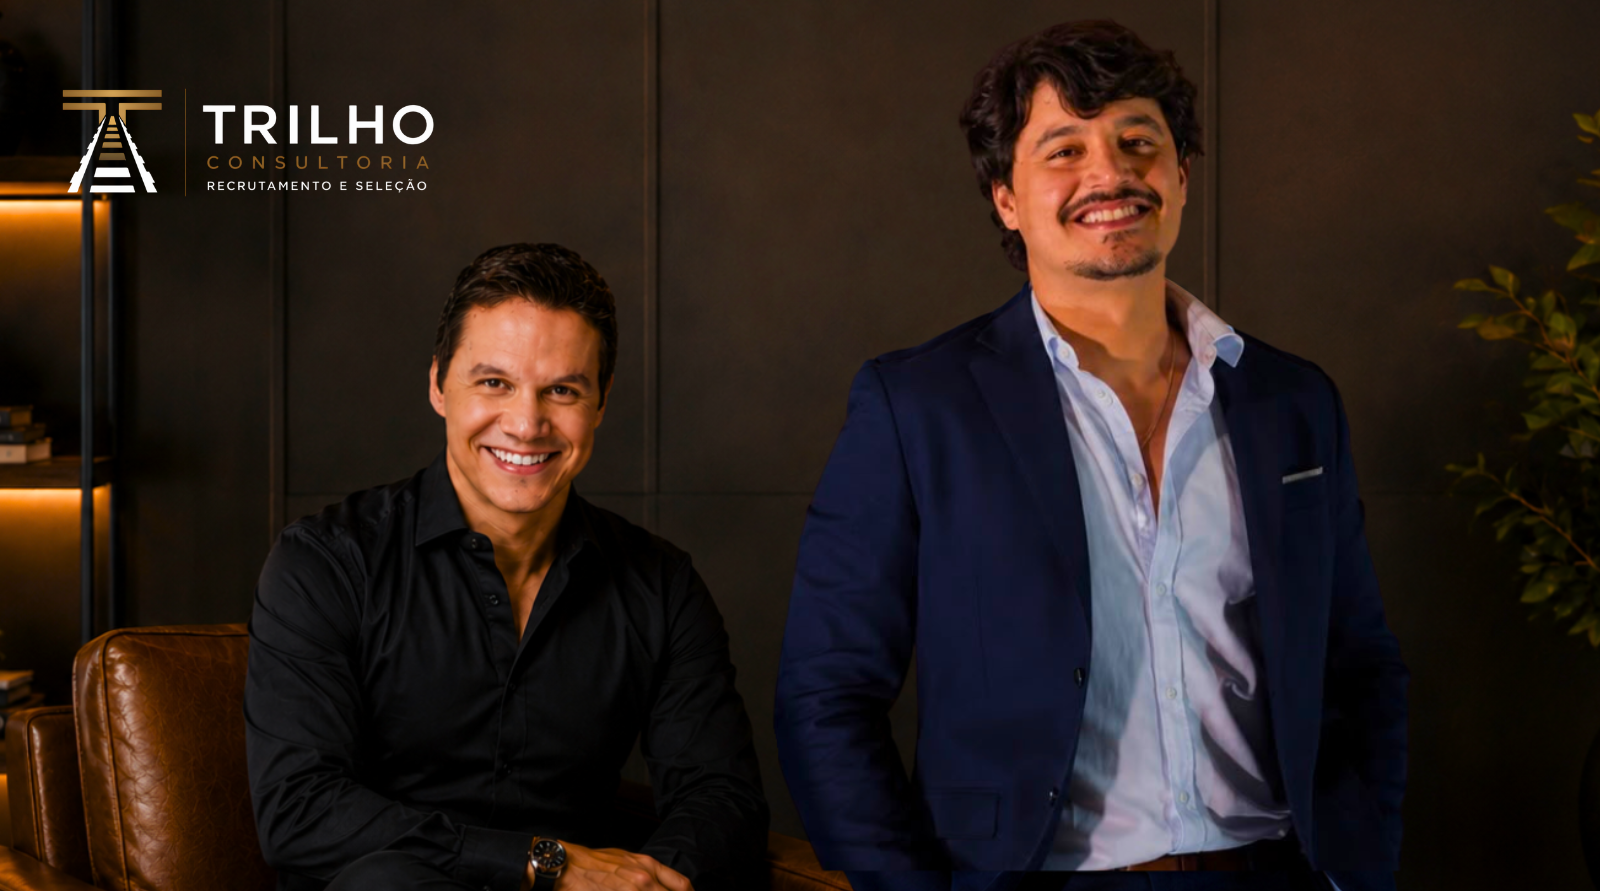
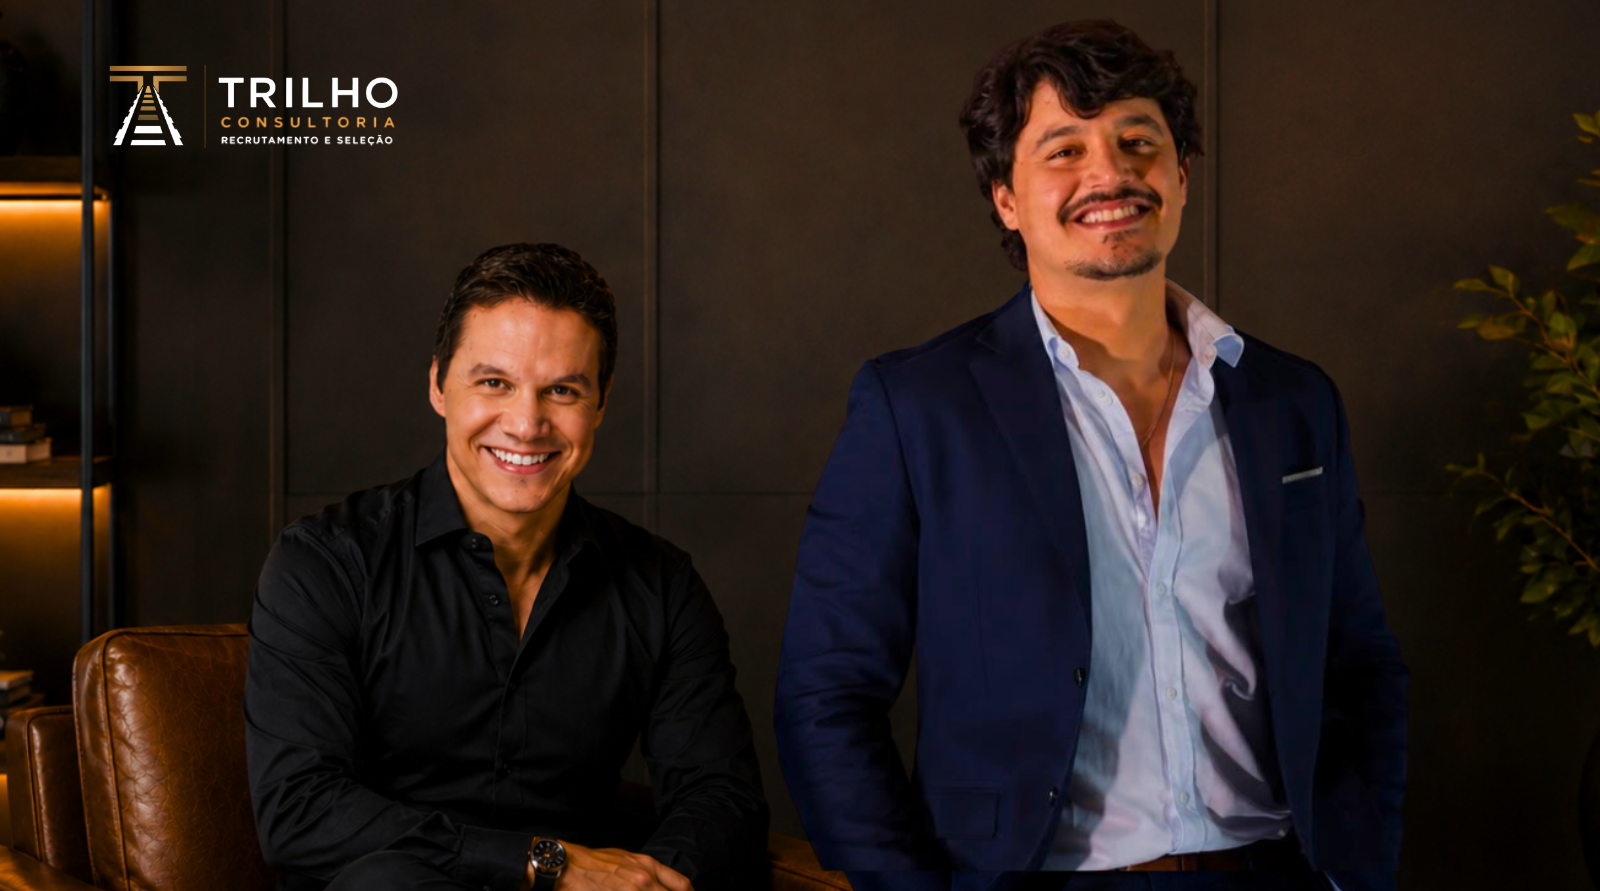
Ajustes de justificação de texto, tamanhos e ícones

Changed region(s): [[0.0312, 0.0606, 0.2812, 0.2424]]

diff --git a/components/Equipe.tsx b/components/Equipe.tsx
@@ -6,7 +6,7 @@ import { Linkedin } from "lucide-react";
 const SOCIOS = [
   {
     nome: "Alexandre Faleiros",
-    cargo: "Diretor de Talent & Sócio",
+    cargo: "Sócio & Diretor de Talent",
     linkedin: "https://www.linkedin.com/in/alexandre-faleiros",
     bio: "Administrador de Empresas pela Universidade Federal de Uberlândia (UFU), pós-graduado pela Fundação Getulio Vargas (FGV), especialista em Talent Acquisition e Gestão Estratégica de Pessoas. Possui mais de 10 anos de experiência em Recursos Humanos, atuando em empresas nacionais e multinacionais, com forte atuação em recrutamento estratégico para posições operacionais, técnicas, especialistas, liderança e executivos. Ao longo de sua carreira, liderou projetos de Employer Branding, Programas de Estágio e Trainee, atração de talentos, hunting, People Analytics e iniciativas de Diversidade, Equidade e Inclusão. É certificado nas metodologias comportamentais Predictive Index (PI) e PDA International.",
   },
@@ -14,7 +14,7 @@ const SOCIOS = [
     nome: "William Sales",
     cargo: "Sócio & Diretor Executivo",
     linkedin: "https://www.linkedin.com/in/will-sales",
-    bio: "Administrador, pós-graduado pela Fundação Getulio Vargas (FGV), executivo com mais de 20 anos de experiência em gestão empresarial, desenvolvimento de negócios e liderança de equipes. Construiu sua carreira em empresas de grande porte, liderando operações, projetos de transformação organizacional, estratégia corporativa e desenvolvimento de pessoas. Sua atuação combina visão de negócios, capacidade analítica e foco em resultados sustentáveis.",
+    bio: "Administrador, pós-graduado pela Fundação Getúlio Vargas (FGV), executivo com mais de 20 anos de experiência em gestão empresarial, gerenciamento de riscos, desenvolvimento de negócios e liderança de equipes multidisciplinares e multiculturais. Construiu sua carreira em empresas de grande porte, tanto nacionais como multinacionais, passando por todas as etapas organizacionais, liderando operações, projetos de transformação organizacional, estratégia corporativa e desenvolvimento de pessoas. Sua atuação combina visão de negócios, capacidade analítica e foco em resultados sustentáveis.",
   },
 ];
 
@@ -33,12 +33,11 @@ export default function Equipe() {
           <h2 className="font-display font-medium text-3xl sm:text-5xl mt-4 leading-tight">
             Dois sócios. <span className="text-dourado">Diferentes trajetórias.</span> Um mesmo propósito.
           </h2>
-          <p className="mt-6 text-grafite text-lg leading-relaxed max-w-3xl">
+          <p className="mt-6 text-grafite text-lg leading-relaxed max-w-3xl text-justify">
             A Trilho Consultoria foi fundada por profissionais com sólida trajetória em Recursos Humanos, Estratégia e Gestão Empresarial, reunindo experiência em empresas nacionais e multinacionais dos segmentos de Agronegócio, Indústria e Celulose.
           </p>
         </motion.div>
 
-        {/* Foto com style inline para forçar carregamento */}
         <motion.div
           initial={{ opacity: 0, y: 20 }}
           whileInView={{ opacity: 1, y: 0 }}
@@ -48,7 +47,7 @@ export default function Equipe() {
           style={{ minHeight: "300px" }}
         >
           <img
-            src="/images/equipe.png"
+            src="/images/equipe.png?v=2"
             alt="Alexandre Faleiros e William Sales"
             style={{ width: "100%", maxHeight: "520px", objectFit: "cover", objectPosition: "top", display: "block", borderRadius: "1rem" }}
           />
@@ -62,11 +61,11 @@ export default function Equipe() {
           transition={{ duration: 0.5 }}
           className="border-l-4 border-dourado pl-6 mb-14 max-w-3xl"
         >
-          <p className="text-grafite text-base italic leading-relaxed">
+          <p className="text-grafite text-base italic leading-relaxed text-justify">
             "Mais do que conduzir processos seletivos, desenvolvemos carreiras liderando projetos estratégicos, formando equipes de alta performance e apoiando organizações na construção de resultados sustentáveis por meio da gestão e recrutamento de pessoas."
           </p>
           <footer className="mt-3 text-dourado font-medium text-sm">
-            — Alexandre Faleiros, Diretor de Talent & Sócio
+            — Alexandre Faleiros, Sócio & Diretor de Talent
           </footer>
         </motion.blockquote>
 
@@ -90,7 +89,7 @@ export default function Equipe() {
                 </a>
               </div>
               <div className="h-px bg-linha" />
-              <p className="text-grafite text-sm leading-relaxed">{s.bio}</p>
+              <p className="text-grafite text-sm leading-relaxed text-justify">{s.bio}</p>
             </motion.div>
           ))}
         </div>

diff --git a/components/Servicos.tsx b/components/Servicos.tsx
@@ -11,9 +11,9 @@ const SERVICOS = [
     descricao: "Processos seletivos completos, do alinhamento de perfil ideal à integração do profissional aprovado. Conheça nossas soluções para R&S:",
     subservicos: [
       { icone: "🌱", texto: "Trilho Estágio — Recrutamento especializado para programas de estágio, com processos personalizados à cultura, aos desafios e ao perfil de talento que cada empresa busca. Da atração à seleção, encontramos jovens com potencial para crescer junto com o seu negócio." },
-      { icone: "⭐", texto: "Trilho Talent — Posições técnicas, operacionais e administrativas até nível Sênior" },
-      { icone: "⭐", texto: "Trilho Strategy — Atração e seleção para posições de gerência, especialistas e coordenação" },
-      { icone: "⭐", texto: "Trilho Executive — Posições estratégicas C-Level, Vice-Presidência e Diretoria" },
+      { icone: "logo", texto: "Trilho Talent — Posições técnicas, operacionais e administrativas até nível Sênior" },
+      { icone: "logo", texto: "Trilho Strategy — Atração e seleção para posições de gerência, especialistas e coordenação" },
+      { icone: "logo", texto: "Trilho Executive — Posições estratégicas C-Level, Vice-Presidência e Diretoria" },
     ],
     imagem: "/images/recrutamento.png",
     posicao: "object-center",
@@ -31,7 +31,6 @@ const SERVICOS = [
 export default function Servicos() {
   const [ativo, setAtivo] = useState(0);
 
-  // 15 segundos de intervalo
   useEffect(() => {
     const timer = setInterval(() => {
       setAtivo((prev) => (prev + 1) % SERVICOS.length);
@@ -82,12 +81,20 @@ export default function Servicos() {
                 </div>
                 <h2 className="font-display font-medium text-3xl sm:text-4xl leading-tight">{s.titulo}</h2>
               </div>
-              <p className="text-branco/80 text-lg leading-relaxed">{s.descricao}</p>
+              <p className="text-branco/80 text-lg leading-relaxed text-justify">{s.descricao}</p>
               {s.subservicos.length > 0 && (
                 <ul className="flex flex-col gap-4">
                   {s.subservicos.map((sub, i) => (
-                    <li key={i} className="flex items-start gap-3 text-branco/80 text-sm leading-relaxed">
-                      <span className="text-dourado-claro text-base shrink-0 mt-0.5">{sub.icone}</span>
+                    <li key={i} className="flex items-start gap-3 text-branco/80 text-sm leading-relaxed text-justify">
+                      {sub.icone === "logo" ? (
+                        <img
+                          src="/images/logo-nova.png"
+                          alt="Trilho"
+                          className="w-4 h-4 object-contain shrink-0 mt-0.5"
+                        />
+                      ) : (
+                        <span className="text-dourado-claro text-base shrink-0 mt-0.5">{sub.icone}</span>
+                      )}
                       {sub.texto}
                     </li>
                   ))}

diff --git a/components/QuemSomos.tsx b/components/QuemSomos.tsx
@@ -13,7 +13,6 @@ export default function QuemSomos() {
           transition={{ duration: 0.6 }}
           className="mb-16"
         >
-          {/* QUEM SOMOS: levemente menor que antes, peso leve, espaço generoso */}
           <span className="text-dourado font-light tracking-[0.3em] uppercase block text-2xl sm:text-3xl lg:text-4xl mb-8">
             Quem Somos
           </span>
@@ -23,7 +22,7 @@ export default function QuemSomos() {
           </h2>
         </motion.div>
 
-        <div className="grid lg:grid-cols-2 gap-12 lg:gap-16 items-start">
+        <div className="grid lg:grid-cols-2 gap-12 lg:gap-16 items-center">
           <motion.div
             initial={{ opacity: 0, x: -24 }}
             whileInView={{ opacity: 1, x: 0 }}
@@ -45,19 +44,19 @@ export default function QuemSomos() {
             transition={{ duration: 0.6, delay: 0.15 }}
             className="flex flex-col gap-5 text-grafite text-base leading-relaxed"
           >
-            <p className="font-bold text-noite text-lg">
+            <p className="font-bold text-noite text-lg text-justify">
               A Trilho Consultoria nasceu da união de profissionais com sólida experiência em Recursos Humanos, Gestão de Negócios e Desenvolvimento Organizacional.
             </p>
-            <p>
+            <p className="text-justify">
               Nosso propósito é conectar pessoas e empresas por meio de soluções personalizadas que apoiam a atração, seleção, desenvolvimento e retenção de talentos. Trabalhamos para fortalecer organizações, formar equipes de alta performance e contribuir para ambientes mais inclusivos, inovadores e preparados para os desafios do futuro.
             </p>
-            <p className="font-bold text-noite">
+            <p className="font-bold text-noite text-justify">
               Contamos com uma equipe de recrutadores especializados em diferentes mercados, com forte atuação nos setores de agronegócio, indústria e celulose.
             </p>
-            <p>
+            <p className="text-justify">
               Na Trilho Consultoria, acreditamos que cada empresa possui uma história, uma cultura e desafios únicos. Por isso, combinamos inteligência de mercado, metodologia, tecnologia e uma abordagem genuinamente humana para construir soluções que geram resultados sustentáveis.
             </p>
-            <p className="font-medium text-noite">
+            <p className="font-medium text-noite text-justify">
               Mais do que uma consultoria de Recrutamento e Seleção, somos parceiros estratégicos na construção de caminhos que impulsionam pessoas, fortalecem organizações e transformam o futuro dos negócios.
             </p>
           </motion.div>

diff --git a/components/Hero.tsx b/components/Hero.tsx
@@ -27,9 +27,9 @@ export default function Hero() {
           initial={{ opacity: 0, y: 10 }}
           animate={{ opacity: 1, y: 0 }}
           transition={{ duration: 0.6 }}
-          className="text-dourado-claro text-base tracking-[0.2em] uppercase mb-6 font-bold"
+          className="text-dourado-claro text-2xl sm:text-3xl tracking-[0.2em] uppercase mb-6 font-bold"
         >
-          Recrutamento & Seleção · Agronegócio & Indústria
+          Recrutamento & Seleção
         </motion.p>
 
         <motion.h1
@@ -45,12 +45,11 @@ export default function Hero() {
           initial={{ opacity: 0, y: 18 }}
           animate={{ opacity: 1, y: 0 }}
           transition={{ duration: 0.7, delay: 0.22 }}
-          className="mt-7 text-branco/80 text-lg max-w-xl leading-relaxed"
+          className="mt-7 text-branco/80 text-lg max-w-xl leading-relaxed text-justify"
         >
           Consultoria especializada em recrutamento e seleção, treinamentos e conteúdos estratégicos para empresas do agronegócio e da indústria.
         </motion.p>
 
-        {/* Apenas dois CTAs: Para Empresas e Para Candidatos */}
         <motion.div
           initial={{ opacity: 0, y: 18 }}
           animate={{ opacity: 1, y: 0 }}
@@ -59,14 +58,14 @@ export default function Hero() {
         >
           <div className="flex flex-col gap-3">
             <p className="text-dourado-claro text-xs tracking-[0.18em] uppercase font-bold">Para Empresas</p>
-            <p className="text-branco/60 text-sm leading-relaxed">Encontre o profissional certo para cada posição do seu negócio.</p>
+            <p className="text-branco/60 text-sm leading-relaxed text-justify">Encontre o profissional certo para cada posição do seu negócio.</p>
             <a href="#contato" className="self-start bg-dourado-claro text-noite font-bold px-6 py-3 rounded-full hover:bg-dourado transition-colors text-sm uppercase tracking-wide">
               Fale com a Trilho
             </a>
           </div>
           <div className="flex flex-col gap-3">
             <p className="text-dourado-claro text-xs tracking-[0.18em] uppercase font-bold">Para Candidatos</p>
-            <p className="text-branco/60 text-sm leading-relaxed">Acesse as vagas disponíveis e candidate-se à sua próxima oportunidade.</p>
+            <p className="text-branco/60 text-sm leading-relaxed text-justify">Acesse as vagas disponíveis e candidate-se à sua próxima oportunidade.</p>
             <a href={VAGAS_URL} target="_blank" rel="noopener noreferrer" className="self-start bg-dourado-claro text-noite font-bold px-6 py-3 rounded-full hover:bg-dourado transition-colors text-sm uppercase tracking-wide">
               Ver Vagas
             </a>

diff --git a/components/Pilares.tsx b/components/Pilares.tsx
@@ -46,7 +46,7 @@ export default function Pilares() {
           whileInView={{ opacity: 1, y: 0 }}
           viewport={{ once: true, margin: "-80px" }}
           transition={{ duration: 0.6 }}
-          className="mb-16 text-center"
+          className="mb-16"
         >
           <span className="text-dourado text-sm tracking-[0.2em] uppercase font-bold">
             Nossa Essência
@@ -66,7 +66,7 @@ export default function Pilares() {
               transition={{ duration: 0.5, delay: i * 0.15 }}
               whileHover={{ y: -8 }}
               style={{ backgroundColor: p.bg }}
-              className="relative flex flex-col items-center text-center gap-7 px-10 py-14 cursor-default transition-all duration-300 hover:shadow-2xl"
+              className="relative flex flex-col items-center gap-7 px-10 py-14 cursor-default transition-all duration-300 hover:shadow-2xl"
             >
               <motion.div
                 whileHover={{ rotate: 12, scale: 1.2 }}
@@ -89,13 +89,13 @@ export default function Pilares() {
               {p.lista && p.valores ? (
                 <ul className="flex flex-col gap-2">
                   {p.valores.map((v) => (
-                    <li key={v} style={{ color: p.textColor }} className="text-base font-medium">
+                    <li key={v} style={{ color: p.textColor }} className="text-sm leading-relaxed opacity-85">
                       {v}
                     </li>
                   ))}
                 </ul>
               ) : (
-                <p style={{ color: p.textColor }} className="text-sm leading-relaxed opacity-85">
+                <p style={{ color: p.textColor }} className="w-full text-sm leading-relaxed opacity-85 text-justify">
                   {p.texto}
                 </p>
               )}

diff --git a/components/Clientes.tsx b/components/Clientes.tsx
@@ -33,14 +33,13 @@ export default function Clientes() {
               whileInView={{ opacity: 1, y: 0 }}
               viewport={{ once: true, margin: "-60px" }}
               transition={{ duration: 0.5, delay: i * 0.12 }}
-              className="bg-branco rounded-2xl border border-linha flex flex-col items-center justify-center gap-6 p-10 min-h-[240px] w-full max-w-sm"
+              className="bg-branco rounded-2xl border border-linha flex items-center justify-center p-10 min-h-[200px] w-full max-w-sm"
             >
               <img
                 src={c.logo}
                 alt={c.nome}
-                style={{ width: "100%", height: "140px", objectFit: "contain" }}
+                style={{ width: "100%", height: "120px", objectFit: "contain" }}
               />
-              <p className="text-grafite font-medium text-base text-center">{c.nome}</p>
             </motion.div>
           ))}
         </div>

diff --git a/components/Diferenciais.tsx b/components/Diferenciais.tsx
@@ -66,7 +66,7 @@ export default function Diferenciais() {
                 <h3 className="font-display text-xl sm:text-2xl font-medium mb-2 group-hover:text-dourado transition-colors">
                   {e.titulo}
                 </h3>
-                <p className="text-grafite leading-relaxed max-w-xl">
+                <p className="text-grafite leading-relaxed max-w-xl text-justify">
                   {e.texto}
                 </p>
               </div>
